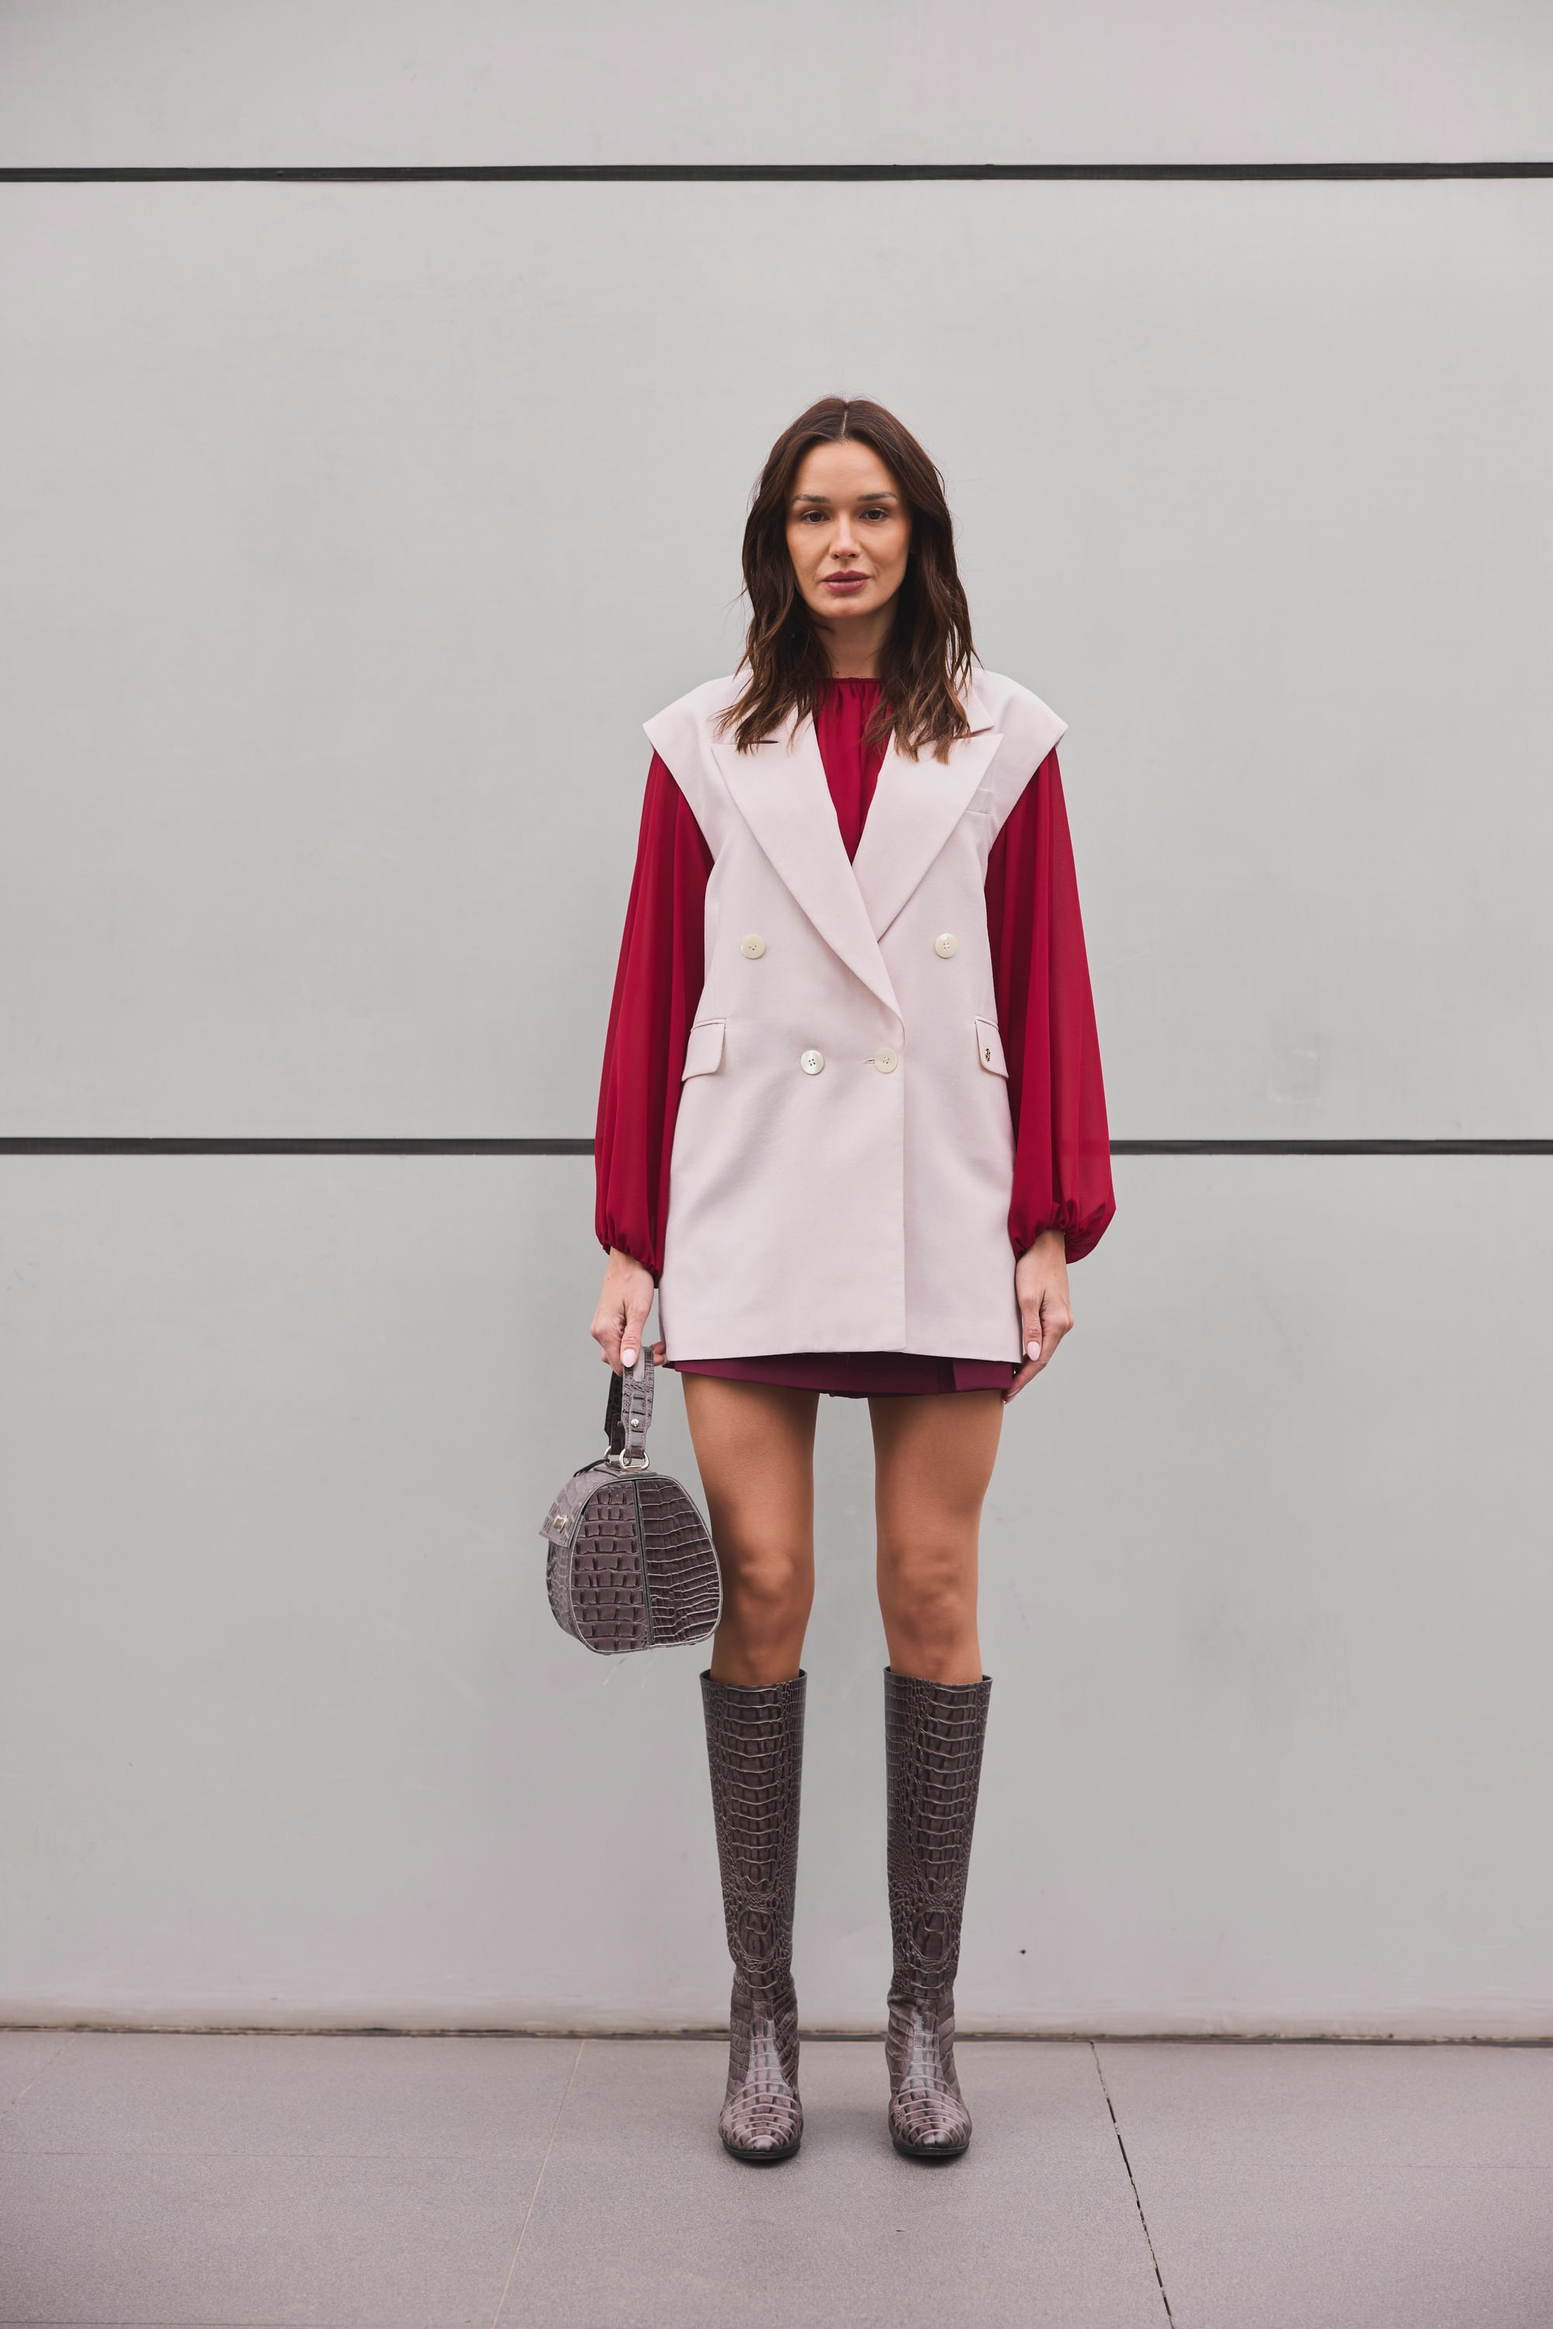
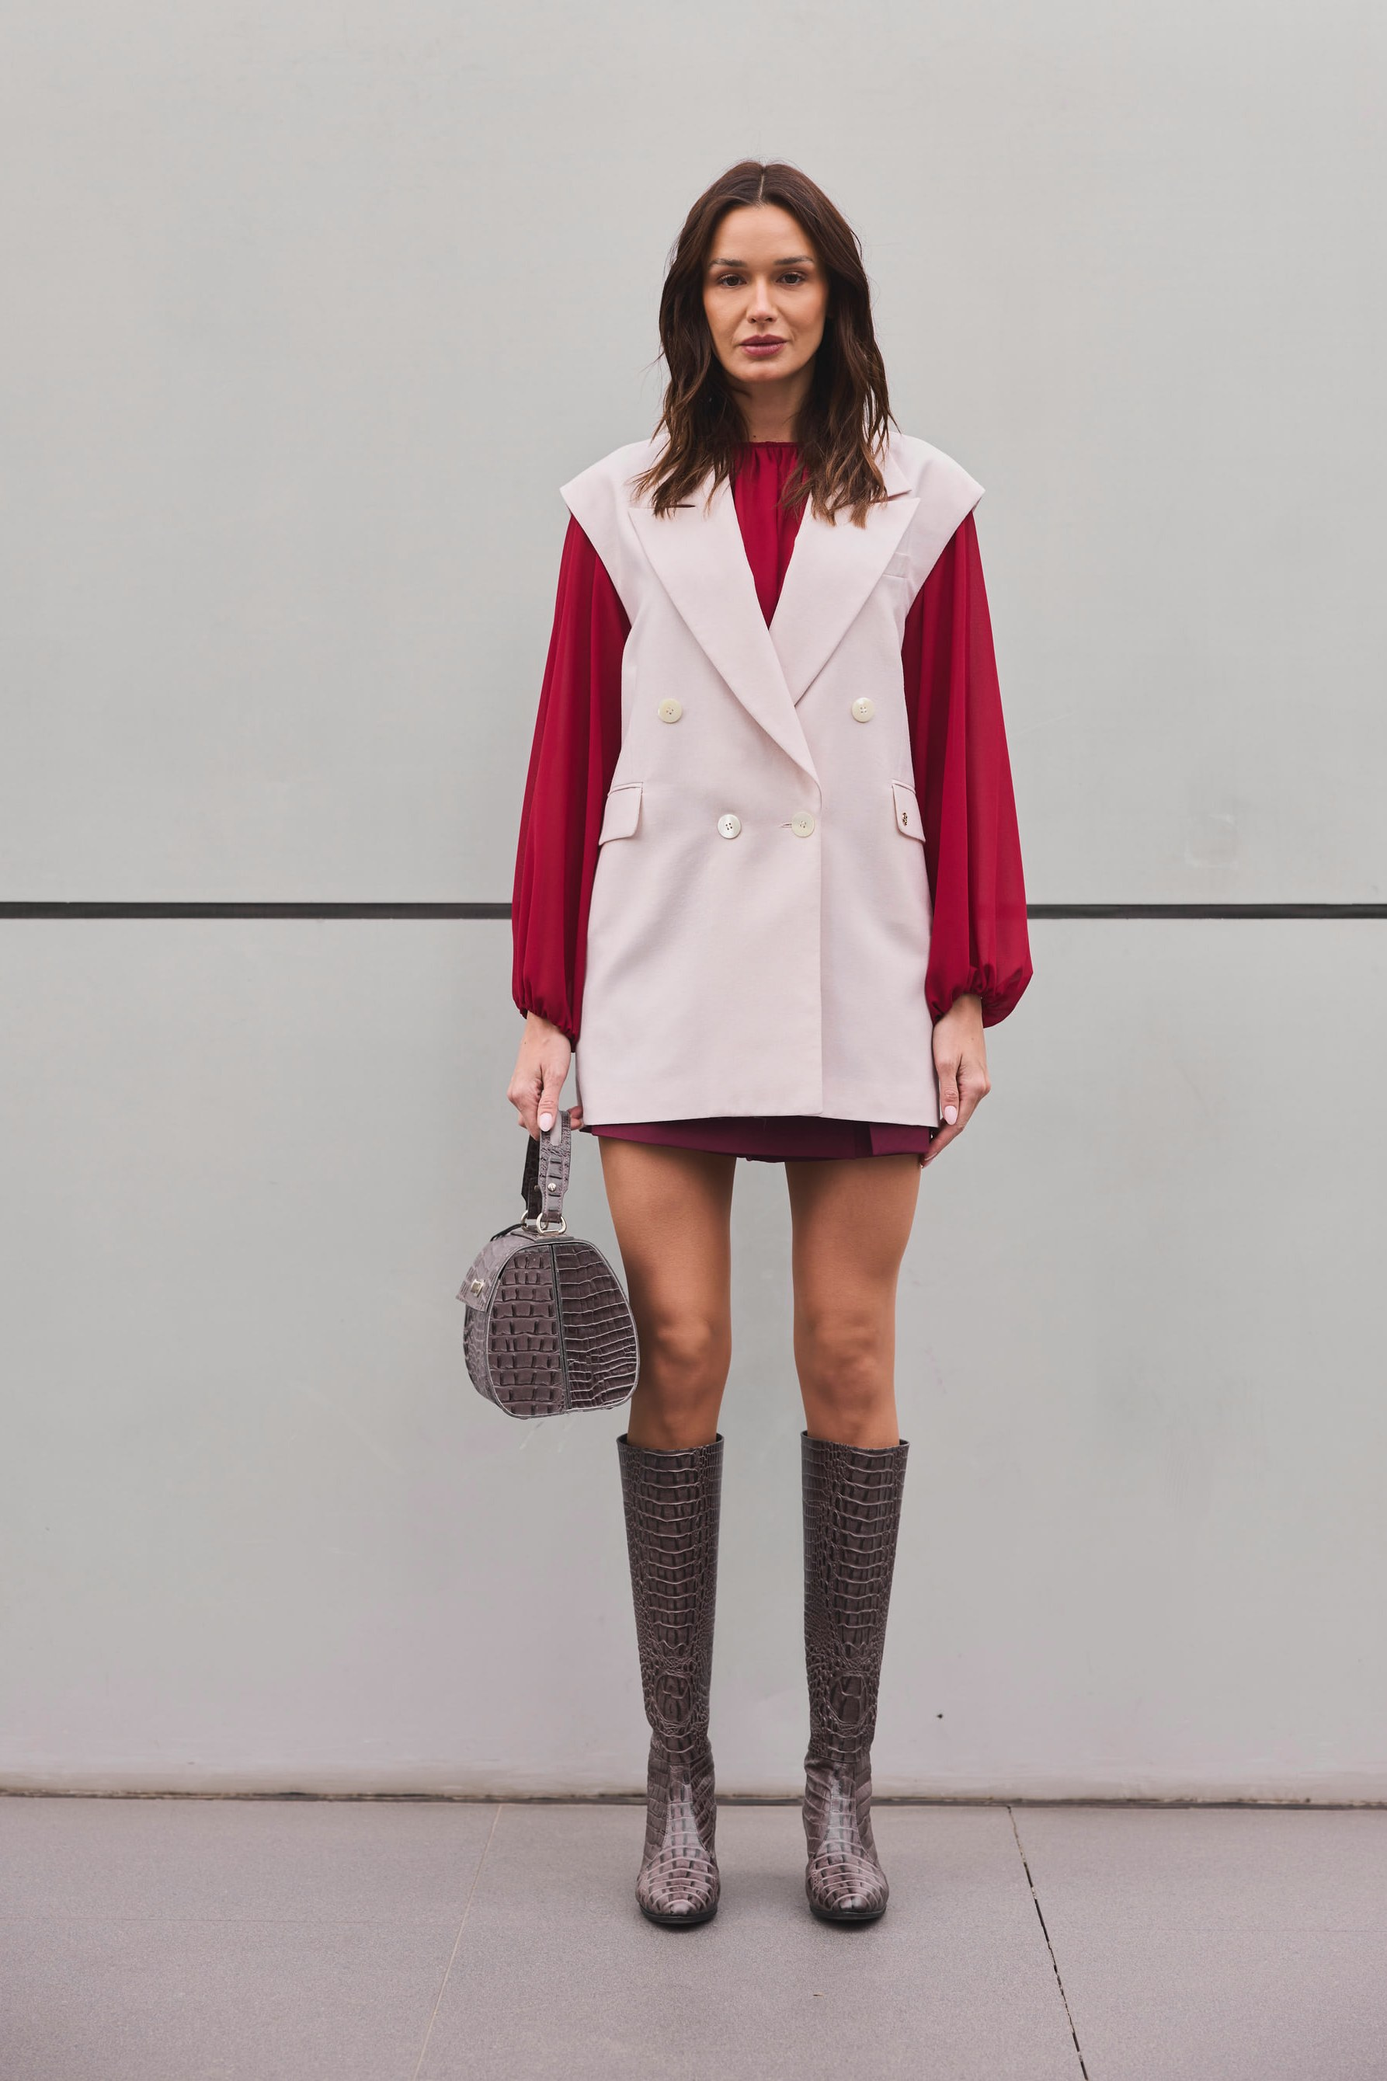
Fotos: portada de Bolomaa recortada (M10 punto 5)
Recorte 2:3 de 1786x2679 (W/1,12 x H/1,12), centrado en x y con origen vertical
al 95 %, hecho desde el original de 35c2086 con el mismo tratamiento de color
(tratar_fotos.py, en sRGB con perfil y sin pesar más que el original). Sin
transform por CSS, como pidieron purista-lujo e ingeniería.

Changed region(s): [[0.0, 0.062, 1.0, 0.9295], [0.0, 0.9914, 0.0308, 1.0], [0.0, 0.0, 0.0308, 0.031]]

diff --git a/scripts/tratar_fotos.py b/scripts/tratar_fotos.py
@@ -25,6 +25,8 @@ from fotos_color import abrir_srgb, gradar_banco, guardar_jpg, por_franjas, quit
 RECORTES = {
     "fibers/yak/nomin-negro/_84A6395.jpg": (25, 75, 1974, 2999),  # 1949x2924
     "fibers/baby-camel/sernai-silk/_84A5995.jpg": (32, 88, 1640, 2500),  # 1608x2412
+    # M10 punto 5: portada de Bolomaa acercada 1,12 veces, centrada en x y con origen vertical al 95 %.
+    "fibers/baby-camel/bolomaa/_84A5651.jpg": (107, 304, 1893, 2983),  # 1786x2679
 }
 CIELO = {"fibers/yak/nomin-azul/playa-portada.jpg"}
 BANCO = ["origen/yak.jpg", "origen/cabras.jpg", "origen/camellos.jpg"]

diff --git a/docs/LICENCIAS-FOTOS.md b/docs/LICENCIAS-FOTOS.md
@@ -30,7 +30,7 @@ Las copias del sitio se redimensionaron (2400 px de lado largo el paisaje, 1600 
 
 ## Fotos de las prendas (sesión de estudio)
 
-Son fotos propias de Nirün (`public/hero/` y `public/fibers/`). En noviembre de 2026 el muro gris del estudio, que se veía lila, pasó a gris cálido. Solo cambiaron los grises con tinte lila: el color de las prendas quedó igual (diferencia media menor a 1 ΔE, medida dentro de cada prenda). Algún accesorio de la producción con tono lila, como el pañuelo celeste o la cartera de cocodrilo, puede verse un poco más cálido en las sombras. Las portadas de Nomín negro (`_84A6395.jpg`) y Sernaí Silk (`_84A5995.jpg`) se recortaron un poco para sacar la junta oscura del muro del borde de arriba. La portada de playa de Nomín azul oscuro solo bajó el cielo quemado.
+Son fotos propias de Nirün (`public/hero/` y `public/fibers/`). En noviembre de 2026 el muro gris del estudio, que se veía lila, pasó a gris cálido. Solo cambiaron los grises con tinte lila: el color de las prendas quedó igual (diferencia media menor a 1 ΔE, medida dentro de cada prenda). Algún accesorio de la producción con tono lila, como el pañuelo celeste o la cartera de cocodrilo, puede verse un poco más cálido en las sombras. Las portadas de Nomín negro (`_84A6395.jpg`) y Sernaí Silk (`_84A5995.jpg`) se recortaron un poco para sacar la junta oscura del muro del borde de arriba. La portada de Bolomaa (`_84A5651.jpg`) se recortó para acercarla un poco (1,12 veces), sin cortar los pies. La portada de playa de Nomín azul oscuro solo bajó el cielo quemado.
 
 ## Regla de color
 
